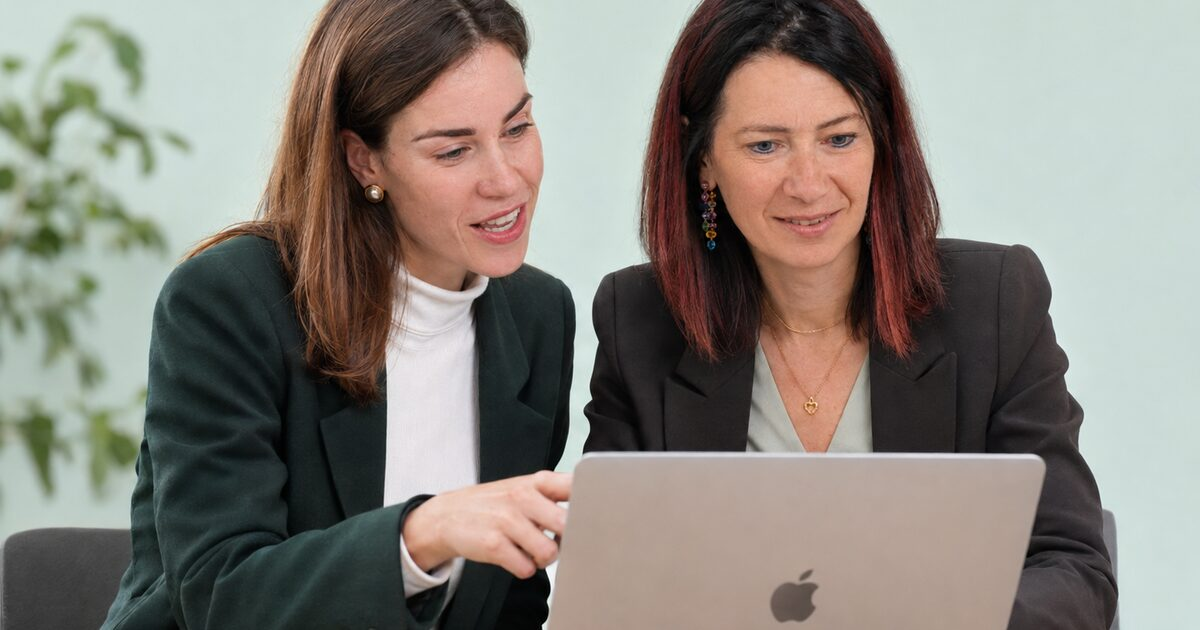
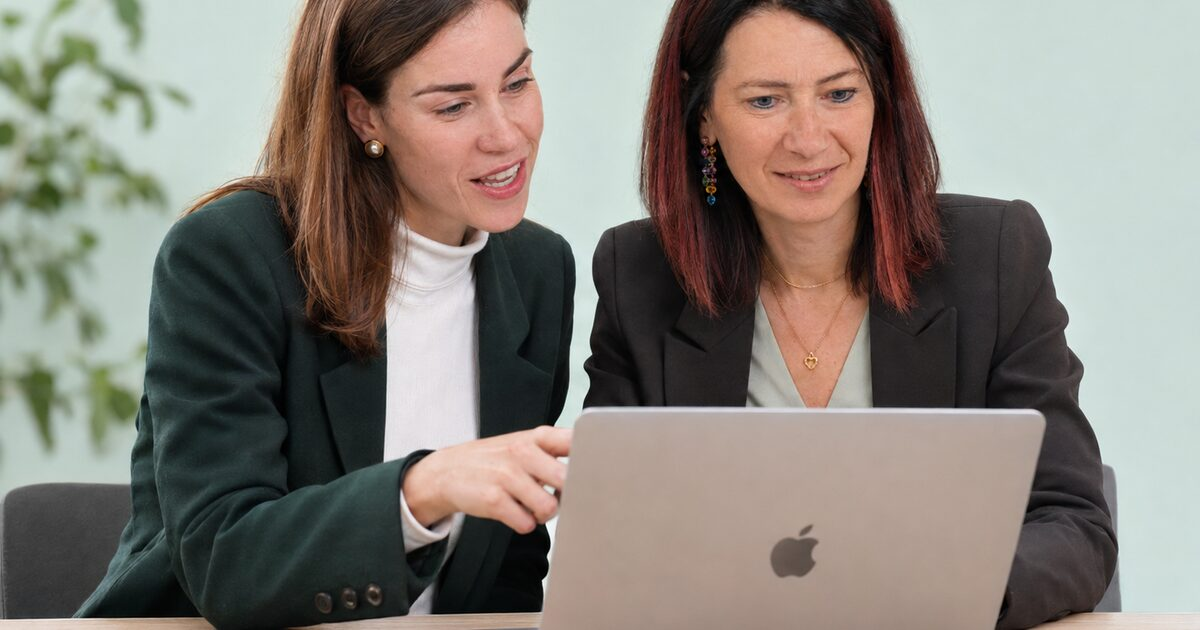
Changes

diff --git a/src/routes/index.tsx b/src/routes/index.tsx
@@ -9,6 +9,8 @@ export const Route = createFileRoute("/")({
       { name: "description", content: "Persönliche Finanz- und Lohnbuchhaltung für Schweizer KMU und Start-ups, GmbHs, AGs und Selbstständige." },
       { property: "og:title", content: "StartSaldo | Persönliche Buchhaltung" },
       { property: "og:description", content: "Klare Abläufe. Persönliche Betreuung. Verlässliche Buchhaltung." },
+      { property: "og:image", content: "https://startsaldo.ch/og/startsaldo-team.jpg" },
+      { name: "twitter:image", content: "https://startsaldo.ch/og/startsaldo-team.jpg" },
       { property: "og:type", content: "website" },
       { name: "twitter:card", content: "summary_large_image" },
     ],

diff --git a/src/routes/en.index.tsx b/src/routes/en.index.tsx
@@ -9,6 +9,8 @@ export const Route = createFileRoute("/en/")({
       { name: "description", content: "Personal financial accounting and payroll for Swiss SMEs, start-ups and self-employed professionals." },
       { property: "og:title", content: "StartSaldo | Personal accounting" },
       { property: "og:description", content: "Clear processes. Personal support. Reliable accounting." },
+      { property: "og:image", content: "https://startsaldo.ch/og/startsaldo-team.jpg" },
+      { name: "twitter:image", content: "https://startsaldo.ch/og/startsaldo-team.jpg" },
       { property: "og:type", content: "website" },
       { name: "twitter:card", content: "summary_large_image" },
     ],

diff --git a/src/components/home-page.tsx b/src/components/home-page.tsx
@@ -8,6 +8,7 @@ import { Reveal } from "@/components/reveal";
 import audeliaPhotoUrl from "@/assets/audelia-photo.webp";
 import sarahPhotoUrl from "@/assets/sarah-photo.webp";
 import danielPhotoUrl from "@/assets/daniel-photo.webp";
+import teamLaptopBandUrl from "@/assets/team-laptop-band.webp";
 import teamHeroUrl from "@/assets/team-hero.webp";
 import { useSiteTheme } from "@/hooks/use-site-theme";
 import startsaldoLogoLightUrl from "@/assets/startsaldo-logo.png";
